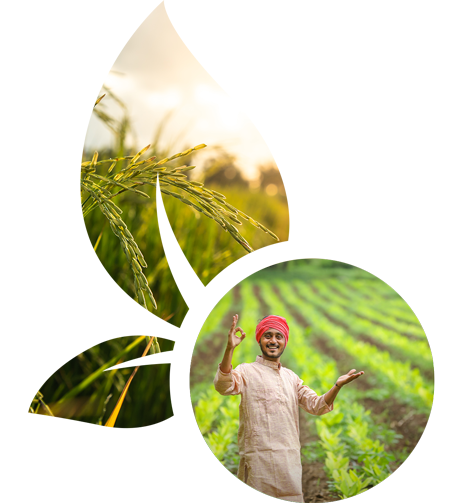
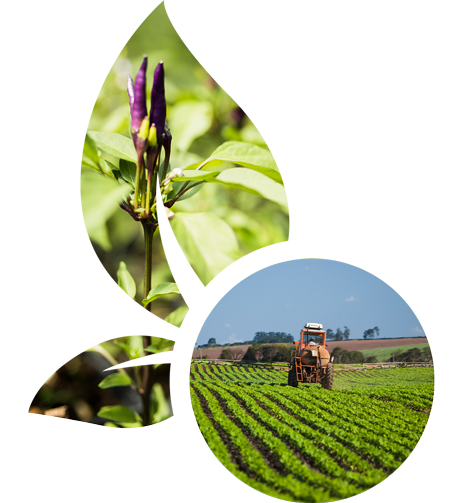
feat: add new components, assets, and styling for the La Vie website

diff --git a/src/App.css b/src/App.css
@@ -605,6 +605,14 @@
   color: var(--color-primary);
 }
 
+.tag-leaf-icon {
+  width: 18px;
+  height: 18px;
+  object-fit: contain;
+  vertical-align: middle;
+  flex-shrink: 0;
+}
+
 .about-heading {
   font-family: var(--font-heading);
   font-size: 2.1rem;
@@ -903,46 +911,28 @@
   transform: translateY(0);
 }
 
-/* White Padding Notch Corner with Smooth Inverted Rounded Corners */
 .arrow-btn-notch {
   position: absolute;
-  bottom: 0;
-  right: 0;
-  width: 62px;
-  height: 62px;
+  bottom: -1px;
+  right: -1px;
+  width: 68px;
+  height: 64px;
   background-color: #ffffff;
-  border-top-left-radius: 20px;
+  border-top-left-radius: 30px;
+  border-bottom-right-radius: 24px;
   z-index: 5;
   display: flex;
   align-items: center;
   justify-content: center;
   pointer-events: none;
+  overflow: hidden;
+  border: none;
+  outline: none;
 }
 
-.arrow-btn-notch::before {
-  content: '';
-  position: absolute;
-  top: -16px;
-  right: 0;
-  width: 16px;
-  height: 16px;
-  background: transparent;
-  border-bottom-right-radius: 16px;
-  /* box-shadow: 6px 6px 0 6px #ffffff; */
-  pointer-events: none;
-}
-
+.arrow-btn-notch::before,
 .arrow-btn-notch::after {
-  content: '';
-  position: absolute;
-  bottom: 0;
-  left: -16px;
-  width: 16px;
-  height: 16px;
-  background: transparent;
-  border-bottom-right-radius: 16px;
-  /* box-shadow: 6px 6px 0 6px #ffffff; */
-  pointer-events: none;
+  display: none;
 }
 
 .card-image-badge {

diff --git a/src/components/AboutUs.tsx b/src/components/AboutUs.tsx
@@ -1,6 +1,7 @@
 import React from 'react';
-import { Calendar, Award, Factory, MapPin, Leaf } from 'lucide-react';
+import { Calendar, Award, Factory, MapPin } from 'lucide-react';
 import aboutImg from '../assets/aboutus/about image.png';
+import leafIconImg from '../assets/common/Leaf.png';
 
 export const AboutUs: React.FC = () => {
   // Main about image imported from assets
@@ -19,19 +20,13 @@ export const AboutUs: React.FC = () => {
         {/* Left Side: Leaf-Shaped Image Collage */}
         <div className="about-image-column">
           <div className="about-image-wrapper">
-
-
-            {/* Small Floating Leaf Accent */}
-            <div className="about-floating-leaf">
-              <Leaf size={32} className="floating-leaf-svg" />
-            </div>
           </div>
         </div>
 
         {/* Right Side: About Content */}
         <div className="about-content-column">
           <div className="about-tag">
-            <Leaf size={16} className="tag-icon" />
+            <img src={leafIconImg} alt="Leaf" className="tag-leaf-icon" />
             <span>About La Vie</span>
           </div>
 

diff --git a/src/components/Foundation.tsx b/src/components/Foundation.tsx
@@ -1,9 +1,9 @@
 import React from 'react';
-import { Leaf } from 'lucide-react';
 import agricultureImg from '../assets/Foundation/Agriculture.jpeg';
 import manufacturingImg from '../assets/Foundation/Mnufacturing.jpeg';
 import agroTradingImg from '../assets/Foundation/Agro-trading.jpeg';
 import technologyImg from '../assets/Foundation/Technology.jpeg';
+import leafIconImg from '../assets/common/Leaf.png';
 
 export const Foundation: React.FC = () => {
   const foundationCards = [
@@ -39,7 +39,7 @@ export const Foundation: React.FC = () => {
         {/* Header Section */}
         <div className="foundation-header">
           <div className="foundation-tag">
-            <Leaf size={16} className="tag-icon" />
+            <img src={leafIconImg} alt="Leaf" className="tag-leaf-icon" />
             <span>FOUNDATION</span>
           </div>
           <h2 className="foundation-title">A Multi-Disciplinary Foundation</h2>

diff --git a/src/components/VisionMission.tsx b/src/components/VisionMission.tsx
@@ -1,6 +1,7 @@
 import React from 'react';
-import { Leaf, FlaskConical, ShieldCheck, Sprout } from 'lucide-react';
+import { FlaskConical, ShieldCheck, Sprout } from 'lucide-react';
 import farmerImg from '../assets/Home/farmer.png';
+import leafIconImg from '../assets/common/Leaf.png';
 
 export const VisionMission: React.FC = () => {
   const missionCards = [
@@ -46,7 +47,7 @@ export const VisionMission: React.FC = () => {
           {/* Right Column: Vision Header, Statement & Mission Heading */}
           <div className="vm-content-col">
             <div className="vm-tag">
-              <Leaf size={16} className="tag-icon" />
+              <img src={leafIconImg} alt="Leaf" className="tag-leaf-icon" />
               <span>OUR VISION & MISSION</span>
             </div>
 

diff --git a/src/components/ProductPortfolio.tsx b/src/components/ProductPortfolio.tsx
@@ -1,5 +1,6 @@
 import React, { useState, useEffect } from 'react';
-import { Leaf, Check } from 'lucide-react';
+import { Check } from 'lucide-react';
+import leafIconImg from '../assets/common/Leaf.png';
 
 export const ProductPortfolio: React.FC = () => {
   const [activeIndex, setActiveIndex] = useState(0);
@@ -92,7 +93,7 @@ export const ProductPortfolio: React.FC = () => {
         {/* Top Header */}
         <div className="portfolio-header">
           <div className="portfolio-tag">
-            <Leaf size={16} className="tag-icon" />
+            <img src={leafIconImg} alt="Leaf" className="tag-leaf-icon" />
             <span>PRODUCT PORTFOLIO</span>
           </div>
           <h2 className="portfolio-title">Product Portfolio</h2>

diff --git a/src/components/WhyLaVie.tsx b/src/components/WhyLaVie.tsx
@@ -1,5 +1,6 @@
 import React, { useState } from 'react';
-import { Leaf, Plus, Minus } from 'lucide-react';
+import { Plus, Minus } from 'lucide-react';
+import leafIconImg from '../assets/common/Leaf.png';
 
 export const WhyLaVie: React.FC = () => {
   const [openIndex, setOpenIndex] = useState<number | null>(0);
@@ -86,7 +87,7 @@ export const WhyLaVie: React.FC = () => {
         {/* Right Side Content Accordion */}
         <div className="why-content-col">
           <div className="why-tag">
-            <Leaf size={16} className="tag-icon" />
+            <img src={leafIconImg} alt="Leaf" className="tag-leaf-icon" />
             <span>WHY CHOOSE US</span>
           </div>
 

diff --git a/src/components/Manufacturing.tsx b/src/components/Manufacturing.tsx
@@ -1,5 +1,6 @@
 import React from 'react';
-import { Leaf, Check, Building2 } from 'lucide-react';
+import { Check, Building2 } from 'lucide-react';
+import leafIconImg from '../assets/common/Leaf.png';
 
 export const Manufacturing: React.FC = () => {
   const points = [
@@ -16,7 +17,7 @@ export const Manufacturing: React.FC = () => {
         {/* Left Side Content */}
         <div className="mfg-content-col">
           <div className="mfg-tag">
-            <Leaf size={16} className="tag-icon" />
+            <img src={leafIconImg} alt="Leaf" className="tag-leaf-icon" />
             <span>MANUFACTURE</span>
           </div>
 

diff --git a/src/components/Approach.tsx b/src/components/Approach.tsx
@@ -1,5 +1,5 @@
 import React from 'react';
-import { Leaf } from 'lucide-react';
+import leafIconImg from '../assets/common/Leaf.png';
 
 export const Approach: React.FC = () => {
   const approachItems = [
@@ -35,7 +35,7 @@ export const Approach: React.FC = () => {
         {/* Top Header */}
         <div className="approach-header">
           <div className="approach-tag">
-            <Leaf size={16} className="tag-icon" />
+            <img src={leafIconImg} alt="Leaf" className="tag-leaf-icon" />
             <span>OUR APPROACH</span>
           </div>
           <h2 className="approach-title">Our Approach</h2>

diff --git a/src/components/WhatWeProvide.tsx b/src/components/WhatWeProvide.tsx
@@ -11,6 +11,7 @@ import {
   Sparkles
 } from 'lucide-react';
 import productsData from '../data/products.json';
+import leafIconImg from '../assets/common/Leaf.png';
 
 export interface Product {
   id: string;
@@ -106,7 +107,7 @@ export const WhatWeProvide: React.FC = () => {
         {/* Left Column (30% Width): Title, Badge, Controls */}
         <div className="provide-left-30">
           <div className="provide-badge-tag">
-            <Leaf className="tag-icon" size={16} />
+            <img src={leafIconImg} alt="Leaf" className="tag-leaf-icon" />
             <span>WHAT WE PROVIDE</span>
           </div>
 
